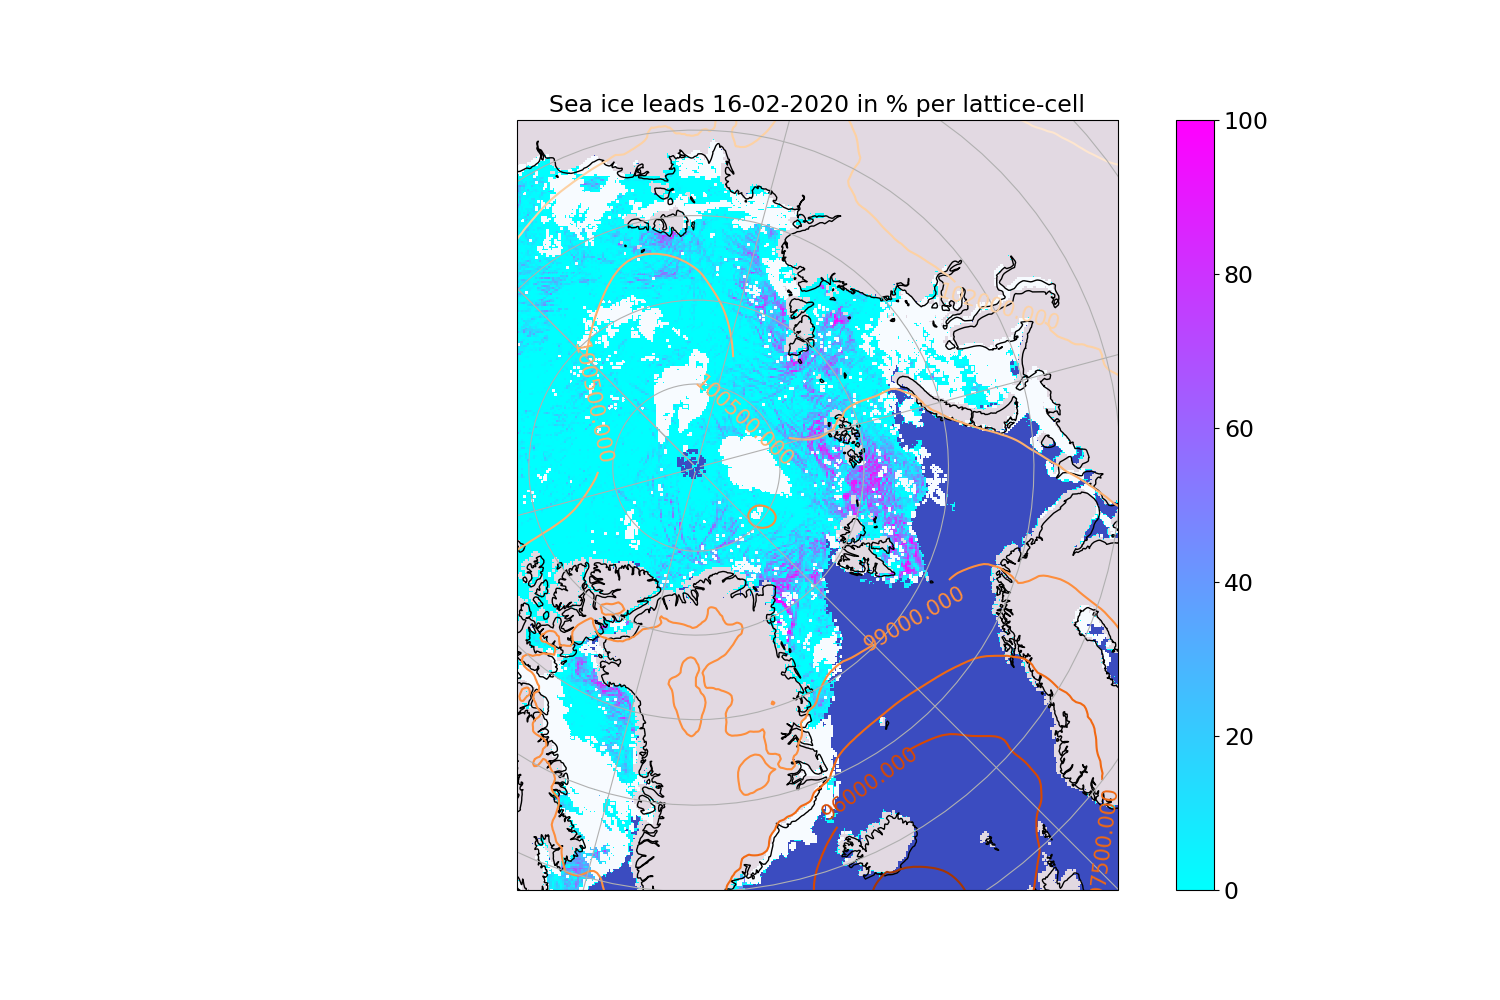
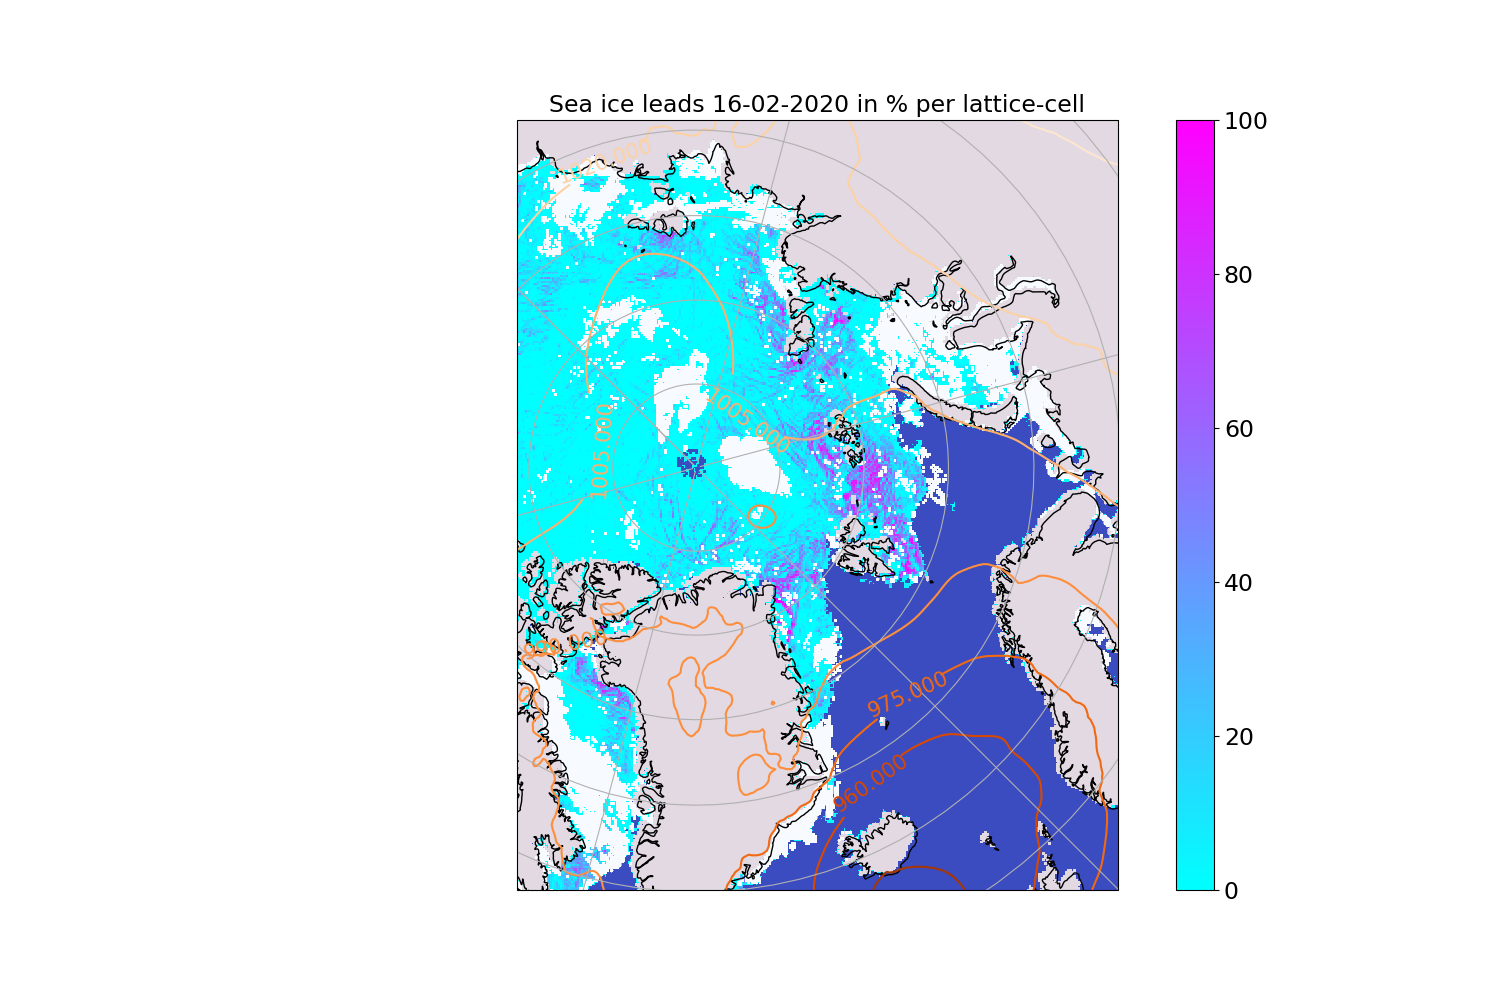
start working on cyclone tracking

diff --git a/leads.py b/leads.py
@@ -1,5 +1,5 @@
 import datetime
-
+import data_science as ds
 import cftime
 import netCDF4 as nc
 import matplotlib.pyplot as plt
@@ -13,6 +13,7 @@ class Lead:
         path = f'./data/{self.date}.nc'
         ds_lead = nc.Dataset(path)
         self.lead_frac = ds_lead['Lead Fraction'][:]
+        self.old_shape = self.lead_frac.shape
 
         # assign instances later needed
         self.del_row, self.del_col = [], []
@@ -36,8 +37,8 @@ class Lead:
             if np.array_equal(self.lead_frac[:, i], col_clear):
                 self.del_col.append(i)
 
-        #self.lead_frac = np.delete(self.lead_frac, self.del_row, 0)
-        #self.lead_frac = np.delete(self.lead_frac, self.del_col, 1)
+        self.lead_frac = np.delete(self.lead_frac, self.del_row, 0)
+        self.lead_frac = np.delete(self.lead_frac, self.del_col, 1)
 
     def visualize_matrix(self, file_name=None, show=False):
         # very simple visualization of the lead fraction matrix
@@ -77,17 +78,13 @@ class CoordinateGrid:
         ds_latlon = nc.Dataset(path_grid)
         self.lat = ds_latlon['Lat Grid'][:]
         self.lon = ds_latlon['Lon Grid'][:]
-        # self.clear_grid(lead.del_row, lead.del_col)
-
-    def clear_grid(self, rows, cols):
-        self.lat = np.delete(self.lat, rows, 0)
-        self.lat = np.delete(self.lat, cols, 1)
-        self.lon = np.delete(self.lon, rows, 0)
-        self.lon = np.delete(self.lon, cols, 1)
+        self.lon = ds.clear_matrix(self.lon, lead.del_row, lead.del_col)
+        self.lat = ds.clear_matrix(self.lat, lead.del_row, lead.del_col)
 
     def vals(self):
         np.savetxt('yvals.txt', self.lat.flatten(), delimiter=' ')
         np.savetxt('xvals.txt', self.lon.flatten(), delimiter=' ')
+
 
 class AirPressure:
     def __init__(self, path=None):
@@ -113,31 +110,38 @@ class AirPressure:
         mean_msl = np.zeros(self.msl[0].shape)
         for t in range(t1, t2 + 1):
             mean_msl += self.msl[t]
-        return .25 * mean_msl
+        return .0025 * mean_msl
 
 
 class Era5Regrid:
     def __init__(self, lead, path=None):
         # import air pressure data
         if not path:
-            path = 'data/ERA5_2020_regrid.nc'
+            path = 'data/ERA5_2020_regrid_bil.nc'
+        self.lead = lead
 
-        ds = nc.Dataset(path)
-        self.shape = lead.lead_frac.shape
-        self.time = ds['time']
-        self.lon = np.reshape(ds.variables['lon'], self.shape)
-        self.lat = np.reshape(ds.variables['lat'], self.shape)
-        self.msl = ds.variables['msl']
+        data_set = nc.Dataset(path)
+        self.shape = lead.old_shape
+        self.time = data_set['time']
+        self.lon = np.reshape(data_set.variables['lon'], self.shape)
+        self.lat = np.reshape(data_set.variables['lat'], self.shape)
+        self.msl = data_set.variables['msl']
+
+        self.lon = ds.clear_matrix(self.lon, lead.del_row, lead.del_col)
+        self.lat = ds.clear_matrix(self.lat, lead.del_row, lead.del_col)
 
     def get_msl(self, date):
         d1 = datetime.datetime(int(date[:4]), int(date[4:6]), int(date[6:]), 0, 0, 0, 0)
         d2 = datetime.datetime(int(date[:4]), int(date[4:6]), int(date[6:]), 18, 0, 0, 0)
         t1, t2 = cftime.date2index([d1, d2], self.time)
 
-        mean_msl = np.zeros(self.shape)
+        new_shape = self.lon.shape
+        mean_msl = np.zeros(new_shape)
         for t in range(t1, t2 + 1):
-            mean_msl += np.reshape(self.msl[t], self.shape)
-        return .25 * mean_msl
+            add_msl = np.reshape(self.msl[t], self.shape)
+            add_msl = ds.clear_matrix(add_msl, self.lead.del_row, self.lead.del_col)
+            mean_msl += add_msl
+        return .0025 * mean_msl
 
 
 if __name__ == '__main__':

diff --git a/plot.py b/plot.py
@@ -48,6 +48,7 @@ def regional_lead_plot(date, extent=None, file_name=None, show=False, msl=True):
     # plot msl data with colorbar
     if msl:
         msl_plot(date, fig, ax, 'Oranges_r')
+        # era5_plot(date, fig, ax, 'Oranges_r', extent)
 
     # Show/Save the figure
     show_plot(fig, file_name, show)
@@ -78,25 +79,27 @@ def two_lead_diff_plot(date1, date2, extent=None, file_name=None, show=False, ms
     cbar.ax.tick_params(labelsize=17)
 
     # plot msl
-    msl_plot(date2, fig, ax, 'summer')
+    if msl:
+        msl_plot(date2, fig, ax, 'summer')
 
     # Show/Save the figure
     show_plot(fig, file_name, show)
 
 
 def msl_plot(date, fig, ax, cmap):
+    # Plots contour lines of mean sea level air pressure.
     data_set = leads.AirPressure()
     contours = ax.contour(data_set.lon, data_set.lat, data_set.get_msl(date), cmap=cmap,
-                          transform=ccrs.PlateCarree())#, levels=np.linspace(90000, 110000, 30000))
+                          transform=ccrs.PlateCarree(), levels=10)
     ax.clabel(contours, inline=True, fontsize=15, inline_spacing=10)
 
 
-def era5_plot(date, cmap):
-    fig, ax = setup_plot(None)
+def era5_plot(date, fig, ax, cmap, extent):
+    # Era5 Dataset is typically not used for plotting. This function might be removed in the near future
     data_set = leads.Era5Regrid(leads.Lead(date))
     contours = ax.contour(data_set.lon, data_set.lat, data_set.get_msl(date), cmap=cmap,
-                          transform=ccrs.PlateCarree())
-    plt.show()
+                          transform=ccrs.PlateCarree(), levels=15)
+    ax.clabel(contours, inline=True, fontsize=15, inline_spacing=10)
 
 
 def plots_for_case(case, path_dir, extent=None):
@@ -120,6 +123,7 @@ if __name__ == '__main__':
     extent3 = None
     case4 = ['20200308', '20200309', '20200310', '20200311', '20200312', '20200313', '20200314', '20200315', '20200316']
     extent4 = None
-    path = './plots/case4'
+    path = './plots/case1'
 
-    era5_plot('20200217', 'Greens')
+    #plots_for_case(case1, path, extent1)
+    regional_lead_plot('20200129', show=True)

diff --git a/data_science.py b/data_science.py
@@ -20,5 +20,11 @@ def two_lead_diff(lead1, lead2):
     lead2.land = compare_nan(lead1.land, lead2.land)
 
 
+def clear_matrix(matrix, rows, cols):
+    matrix = np.delete(matrix, rows, 0)
+    matrix = np.delete(matrix, cols, 1)
+    return matrix
+
+
 if __name__ == '__main__':
     pass
